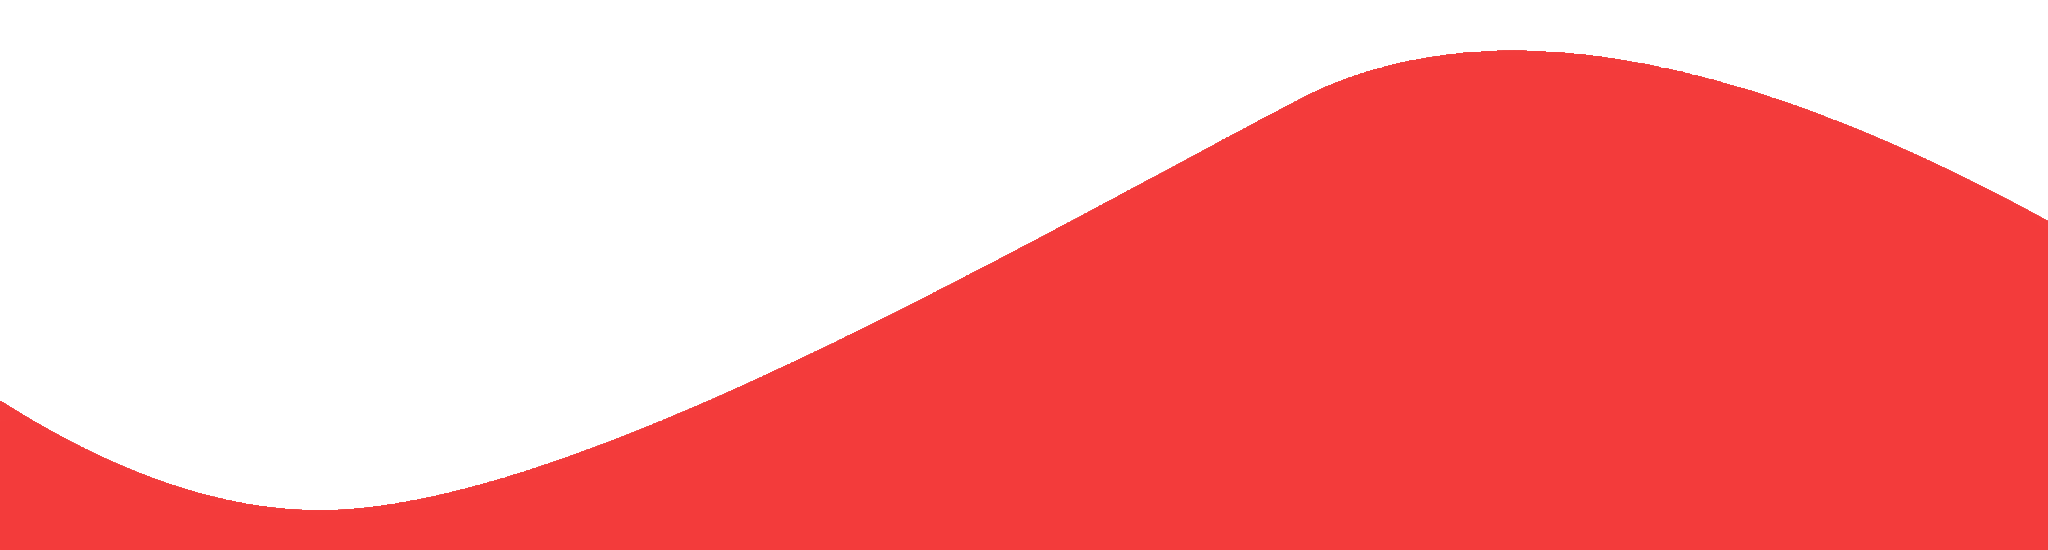
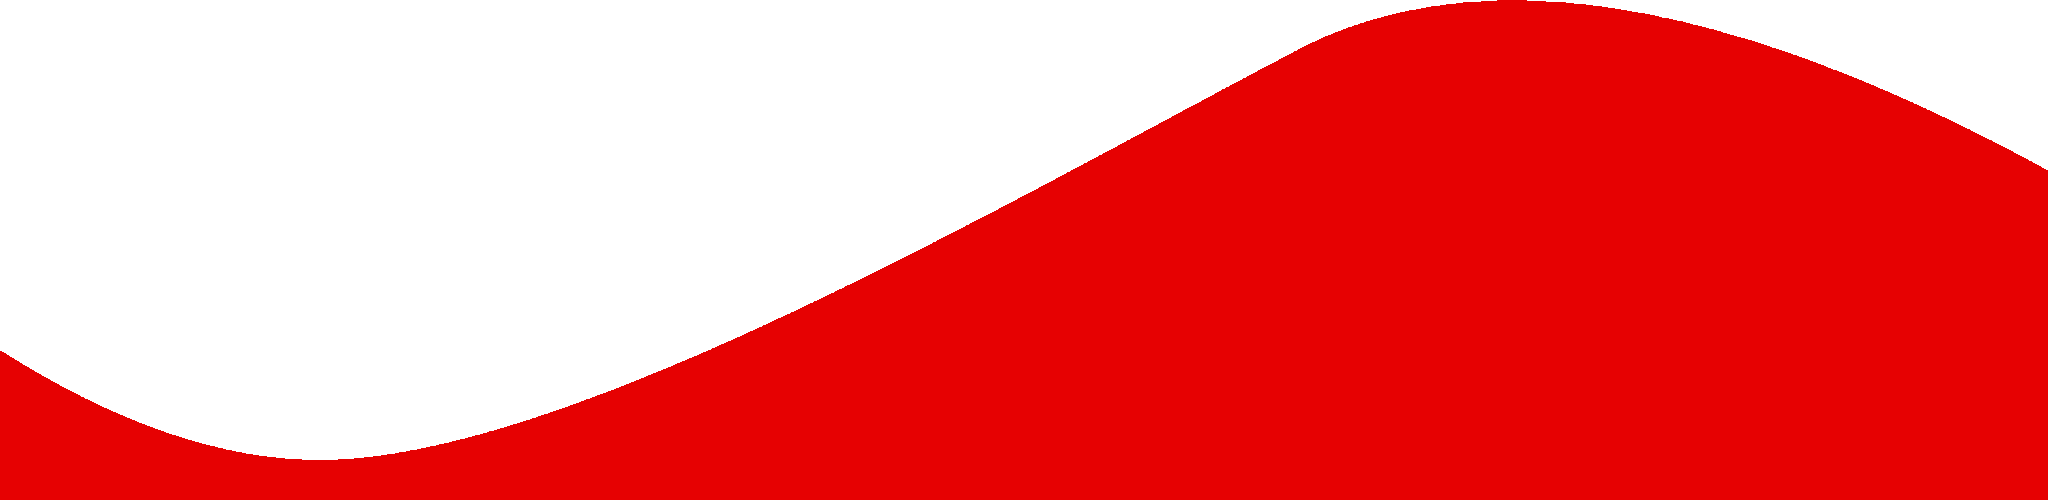
changes

diff --git a/assets/css/styleMobile.css b/assets/css/styleMobile.css
@@ -6,7 +6,7 @@
 
   /* header start */
   header nav{
-    background: #162034;
+    background: #16203f;
     display: flex;
     align-items: center;
     justify-content: space-between;
@@ -68,7 +68,7 @@
     width: 100%;
   }
   .headerContentContainer{
-    background: #f33b3b;
+    background: #e60102;
     position: relative;
     padding: 0.1px;
     margin-top: -3px;
@@ -110,7 +110,7 @@
     color: white;
     font-size: 3.20855vw;
     margin-top: 29.7vw;
-    text-align: justify;
+    text-align: unset;
     padding-left: 11.764vw;
     padding-right: 11.764vw;
     flex-direction: column;
@@ -147,6 +147,7 @@
     padding: 0.1px;
     position: relative;
     overflow: hidden;
+    display: flex;
   }
   .carContainer{
     position: relative;
@@ -286,7 +287,7 @@
     transition: 0.5s ease;
     width: 72.922vw;
     height: 15.5495vw;
-    background: #f33b3b;
+    background: #e60102;
     border: none;
     color: white;
     font-size: 7.5067vw;
@@ -397,7 +398,6 @@
 
   .carTextBox p{
     margin-left: 5vw;
-    text-align: justify;
     margin-right: 5vw;
   }
   .textOrder{
@@ -470,7 +470,7 @@
     font-size: 7.50670vw;
     /* font-family: 'arialbd'; */
     margin-top: 20.7vw;
-    color: #162034;
+    color: #16203f;
   }
 
   .featuredContainer{
@@ -491,7 +491,7 @@
     font-size: 4.2895vw;
     text-align: center;
     width: 54%;
-    color: #162034;
+    color: #16203f;
     margin-bottom: 8vw;
   }
 

diff --git a/assets/css/style.css b/assets/css/style.css
@@ -57,7 +57,7 @@ picture{
 }
 /* header start */
 header nav{
-  background: #162034;
+  background: #16203f;
   display: flex;
   align-items: center;
   justify-content: space-between;
@@ -122,7 +122,7 @@ header nav{
   bottom: -4px;
 }
 .headerContentContainer{
-  background: #f33b3b;
+  background: #e60102;
   position: relative;
   padding: 0.1px;
   padding-bottom: 4vw;
@@ -402,7 +402,7 @@ header nav{
   color: #e60102;
 } */
 .selectionBox:hover{
-  color: #e60102 !important;
+  color: #16203f !important;
 }
 .selectionBox:hover .selectionUnderline{
   color: #b00d;
@@ -419,12 +419,12 @@ header nav{
   width: 0vw;
   height: 0.907441vw;
   position: absolute;
-  top: 8.3vw;
+  top: 9.3vw;
   left: 6.7vw;
 }
 
 .selected .selectionUnderline{
-  width: 80%;
+  width: 82%;
 }
 
 .carTextBox{
@@ -444,7 +444,6 @@ header nav{
 .carTextBox p{
   font-family: 'Raleway-Medium';
   margin-left: 5vw;
-  text-align: justify;
   margin-right: 5vw;
 }
 .textOrder{
@@ -474,11 +473,11 @@ flex-shrink: 0;
   font-size: 6.53357vw;
   font-family: 'arialbd';
   margin-top: 14.7vw;
-  color: #162034;
+  color: #16203f;
 }
 
 .featuredContainer{
-  color: #162034;
+  color: #16203f;
   display: flex;
   justify-content: space-around;
   padding-left: 2vw;

diff --git a/assets/js/app.js b/assets/js/app.js
@@ -124,7 +124,7 @@ function sectionBoxReset() {
 
 selectionBox[0].addEventListener('click',(e)=>{
   sectionBoxReset();
-  e.currentTarget.children[1].style.width = '70%';
+  e.currentTarget.children[1].style.width = '72%';
   console.log(e.target.children);
   carTextMoving[0].style.left = '0%';
   e.currentTarget.style.color = 'red';
@@ -132,14 +132,14 @@ selectionBox[0].addEventListener('click',(e)=>{
 
 selectionBox[1].addEventListener('click',(e)=>{
   sectionBoxReset();
-  e.currentTarget.children[1].style.width = '80%';
+  e.currentTarget.children[1].style.width = '82%';
   carTextMoving[0].style.left = '-100%';
   e.currentTarget.style.color = 'red';
 });
 
 selectionBox[2].addEventListener('click',(e)=>{
   sectionBoxReset();
-  e.currentTarget.children[1].style.width = '80%';
+  e.currentTarget.children[1].style.width = '82%';
   carTextMoving[0].style.left = '-200%';
   e.currentTarget.style.color = 'red';
 });
